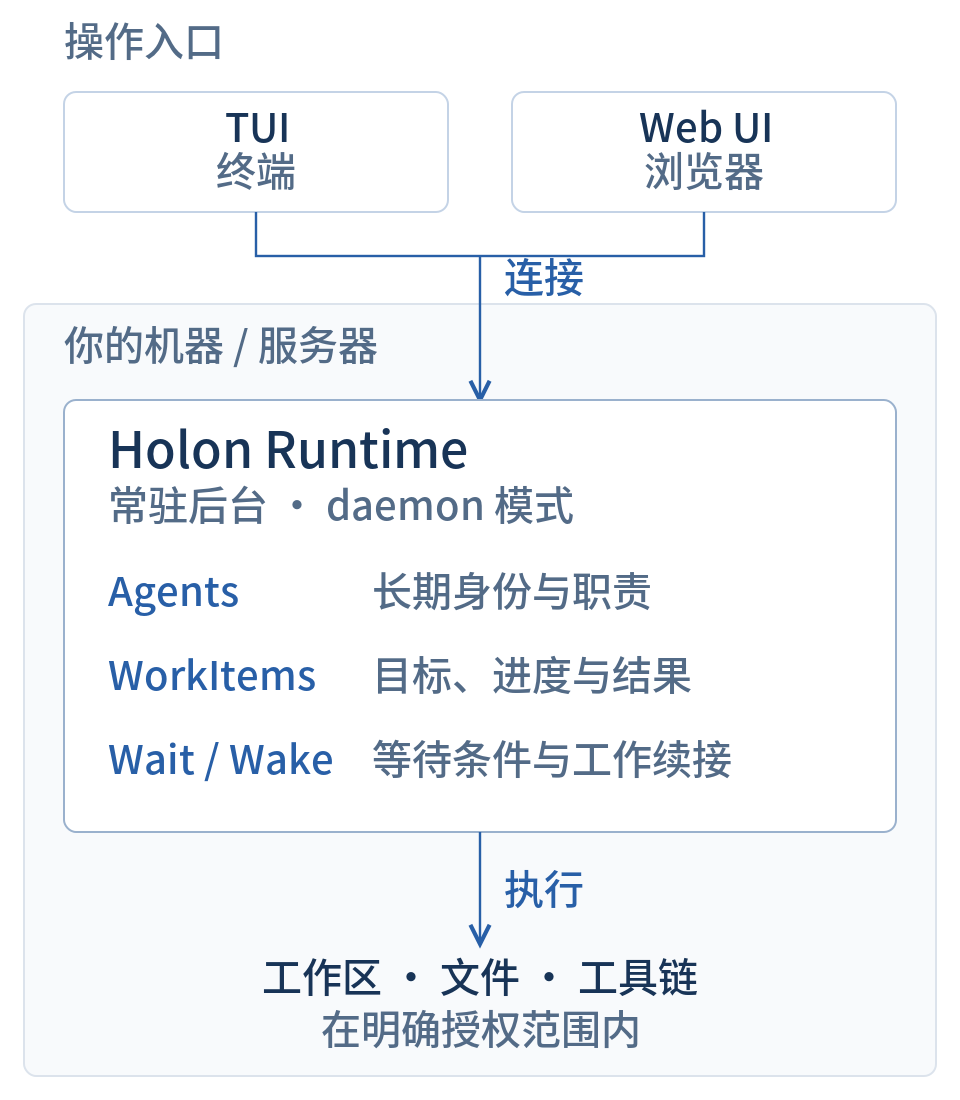
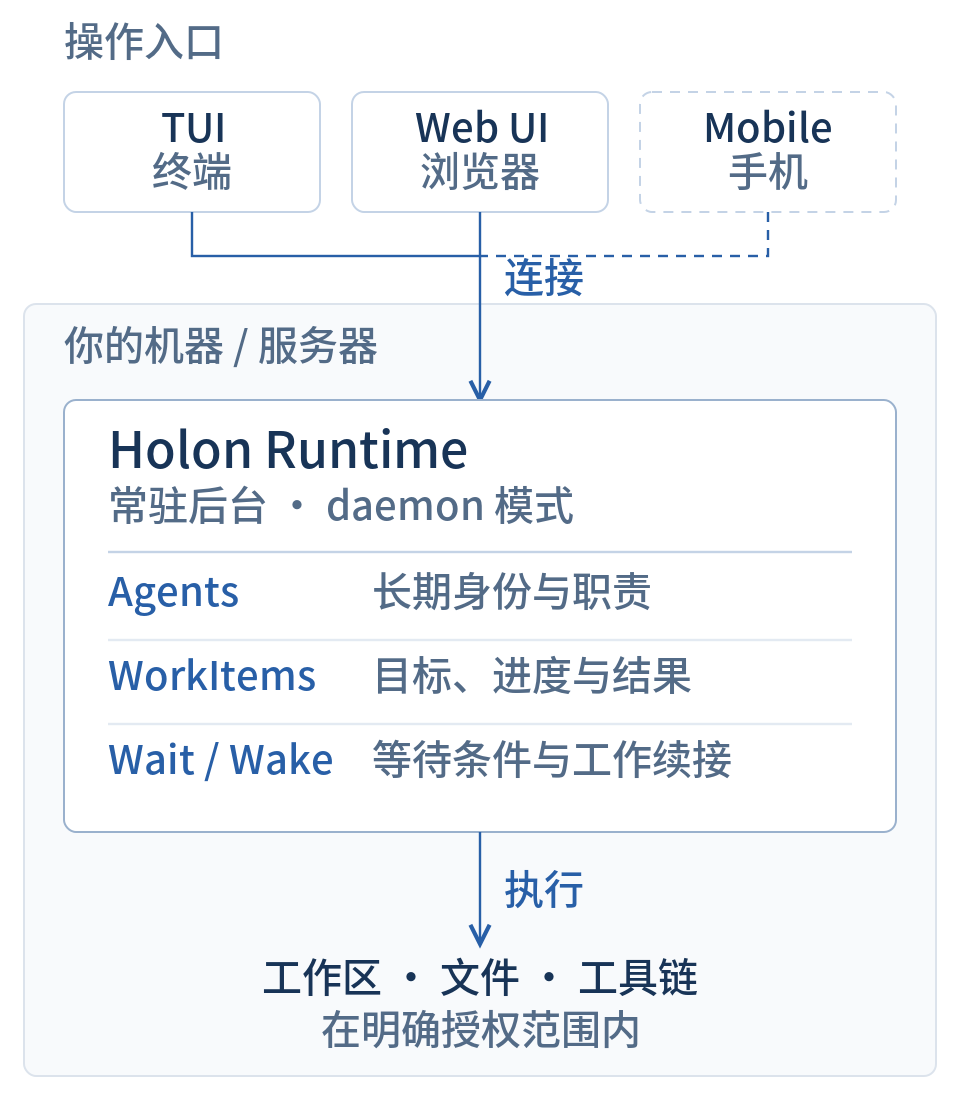
docs: 加入手机架构入口并细分 Runtime 职责区域

Changed region(s): [[0.6562, 0.0927, 0.875, 0.2473], [0.1562, 0.0927, 0.3125, 0.2473], [0.4375, 0.0927, 0.5938, 0.2164]]

diff --git a/docs/website/.tools/render-runtime-diagram.py b/docs/website/.tools/render-runtime-diagram.py
@@ -35,10 +35,11 @@ def render(lang, narrow):
         '<g font-family="Noto Sans CJK SC, sans-serif">',
     ]
 
-    def rect(x, y, w, h, fill="#fff", stroke="#c4d3e6", radius=6):
+    def rect(x, y, w, h, fill="#fff", stroke="#c4d3e6", radius=6, dashed=False):
+        attrs = ' stroke-dasharray="5 4"' if dashed else ""
         parts.append(
             f'<rect x="{x}" y="{y}" width="{w}" height="{h}" rx="{radius}" '
-            f'fill="{fill}" stroke="{stroke}" stroke-width="1"/>'
+            f'fill="{fill}" stroke="{stroke}" stroke-width="1"{attrs}/>'
         )
 
     def text(x, y, value, size=18, color=INK, weight=400, anchor="start"):
@@ -50,22 +51,23 @@ def render(lang, narrow):
             f'font-weight="{weight}" text-anchor="{anchor}">{escape(value)}</text>'
         )
 
-    def line(path, arrow=False):
-        attrs = ""
+    def line(path, arrow=False, dashed=False, color=BLUE):
+        attrs = ' stroke-dasharray="5 4"' if dashed else ""
         if arrow:
             attrs += ' marker-end="url(#arrow)"'
         parts.append(
-            f'<path d="{path}" fill="none" stroke="{BLUE}" stroke-width="1.2"{attrs}/>'
+            f'<path d="{path}" fill="none" stroke="{color}" stroke-width="1.2"{attrs}/>'
         )
 
     # Both layouts share labels and relationships; only their coordinates differ.
-    text(32, 28 if narrow else 92, "操作入口" if zh else "INTERFACES", 16, MUTED, 500)
+    text(32, 28 if narrow else 52, "操作入口" if zh else "INTERFACES", 16, MUTED, 500)
     for i, (name, subtitle) in enumerate([
         ("TUI", "终端" if zh else "Terminal"),
         ("Web UI", "浏览器" if zh else "Browser"),
+        ("Mobile", "手机" if zh else "Phone"),
     ]):
-        x, y, w = (32 + i * 224, 46, 192) if narrow else (32, 116 + i * 80, 168)
-        rect(x, y, w, 60)
+        x, y, w = (32 + i * 144, 46, 128) if narrow else (32, 76 + i * 80, 168)
+        rect(x, y, w, 60, dashed=name == "Mobile")
         text(x + w / 2, y + 25, name, 20, INK, 500, "middle")
         text(x + w / 2, y + 47, subtitle, 16, MUTED, anchor="middle")
 
@@ -75,17 +77,20 @@ def render(lang, narrow):
 
     rx, ry, rw, rh = (32, 200, 416, 216) if narrow else (330, 78, 460, 222)
     if narrow:
-        line("M128 106V128H352V106")
+        line("M96 106V128H240V106")
+        line("M384 106V128H240", dashed=True)
         line(f"M240 128V{ry}", arrow=True)
         text(252, 146, "连接" if zh else "Connect", 16, BLUE)
     else:
-        line("M200 146H230V226H200")
+        line("M200 106H230V186H200")
+        line("M200 266H230V186", dashed=True)
         line(f"M230 186H{rx}", arrow=True)
         text(238, 174, "连接" if zh else "Connect", 14, BLUE)
 
     rect(rx, ry, rw, rh, stroke="#9ab1cd")
     text(rx + 22, ry + 34, "Holon Runtime", 25, INK, 500)
     text(rx + 22, ry + 60, "常驻后台 · daemon 模式" if zh else "Background service · daemon mode", 16, MUTED)
+    line(f"M{rx + 22} {ry + 76}H{rx + rw - 22}", color="#c4d3e6")
 
     modules = [
         ("Agents", "长期身份与职责" if zh else "Identity & roles"),
@@ -96,6 +101,8 @@ def render(lang, narrow):
         baseline = ry + 103 + i * 42
         text(rx + 22, baseline, name, 18, BLUE, 500)
         text(rx + 154, baseline, detail, 16, MUTED)
+        if i < len(modules) - 1:
+            line(f"M{rx + 22} {baseline + 17}H{rx + rw - 22}", color="#e3eaf2")
 
     if narrow:
         line("M240 416V472", arrow=True)

diff --git a/docs/website/zh-CN/blog/what-is-holon.md b/docs/website/zh-CN/blog/what-is-holon.md
@@ -72,7 +72,7 @@ Holon 的后台 Runtime 管理 Agent 的执行和工作状态，终端 TUI 与 W
 
 这对远程开发很直接：编译器、仓库和测试环境已经在开发机上，就让 Agent 在那里运行。你从浏览器查看结果，或通过终端继续交代要求，连接的仍是同一个后台。
 
-<img class="article-architecture" src="/assets/runtime-architecture-zh-narrow.png" width="480" height="550" alt="终端 TUI 与 Web UI 连接同一个常驻 Holon Runtime。Runtime 管理 Agent、工作项与等待唤醒，在宿主机上使用工作区、文件和工具链。" loading="lazy" decoding="async">
+<img class="article-architecture" src="/assets/runtime-architecture-zh-narrow.png" width="480" height="550" alt="终端 TUI 与 Web UI 连接同一个常驻 Holon Runtime，手机入口以虚线边框和连线表示。Runtime 管理 Agent、工作项与等待唤醒，在宿主机上使用工作区、文件和工具链。" loading="lazy" decoding="async">
 
 后台与宿主机需要保持可用，关闭客户端和关闭运行环境是两回事。图中的机器边界说明运行位置，不代表额外的权限隔离。
 

diff --git a/docs/website/README.md b/docs/website/README.md
@@ -74,7 +74,7 @@ In daemon mode, Holon Runtime holds agents, work items, and waiting state. TUI a
 </div>
 <picture class="home-architecture">
 <source media="(max-width: 1100px)" srcset="/assets/runtime-architecture-en-narrow.png" width="480" height="550">
-<img src="/assets/runtime-architecture-en.png" width="1200" height="350" alt="TUI and Web UI connect to one persistent Holon Runtime. The runtime manages agents, work items and wait/wake, using workspaces, files and toolchains on its host." loading="lazy" decoding="async">
+<img src="/assets/runtime-architecture-en.png" width="1200" height="350" alt="TUI and Web UI connect to one persistent Holon Runtime; Mobile has a dashed outline and connection. The runtime manages agents, work items and wait/wake, using workspaces, files and toolchains on its host." loading="lazy" decoding="async">
 </picture>
 <p class="home-product__caption">Execution requires the daemon and host to stay running. The machine boundary shows where work runs, not additional permission isolation.</p>
 </section>

diff --git a/docs/website/zh-CN/README.md b/docs/website/zh-CN/README.md
@@ -74,7 +74,7 @@ order: 1
 </div>
 <picture class="home-architecture">
 <source media="(max-width: 1100px)" srcset="/assets/runtime-architecture-zh-narrow.png" width="480" height="550">
-<img src="/assets/runtime-architecture-zh.png" width="1200" height="350" alt="TUI 与 Web UI 连接同一常驻 Holon Runtime。Runtime 管理 Agent、工作项和等待唤醒，在宿主机上使用工作区、文件与工具链。" loading="lazy" decoding="async">
+<img src="/assets/runtime-architecture-zh.png" width="1200" height="350" alt="TUI 与 Web UI 连接同一常驻 Holon Runtime，手机入口以虚线边框和连线表示。Runtime 管理 Agent、工作项和等待唤醒，在宿主机上使用工作区、文件与工具链。" loading="lazy" decoding="async">
 </picture>
 <p class="home-product__caption">持续执行依赖 daemon 与宿主机保持运行；机器边界说明运行位置，不代表额外的权限隔离。</p>
 </section>

diff --git a/docs/website/assets/README.md b/docs/website/assets/README.md
@@ -21,6 +21,8 @@ It requires CairoSVG and Noto Sans CJK SC.
 Keep HTML image dimensions and the homepage picture/CSS breakpoint synchronized.
 The host boundary contains the runtime and execution resources, not interfaces;
 it describes execution location, not a security sandbox.
+Mobile uses a dashed outline and connector. Thin internal rules separate the
+Runtime heading and its three parallel responsibilities, without a workflow arrow.
 
 The product article uses only `holon-tour-review-work.webp`, with a fixture-data
 caption. Keep `holon-tour-agents.webp` and the versioned demo fixture available
